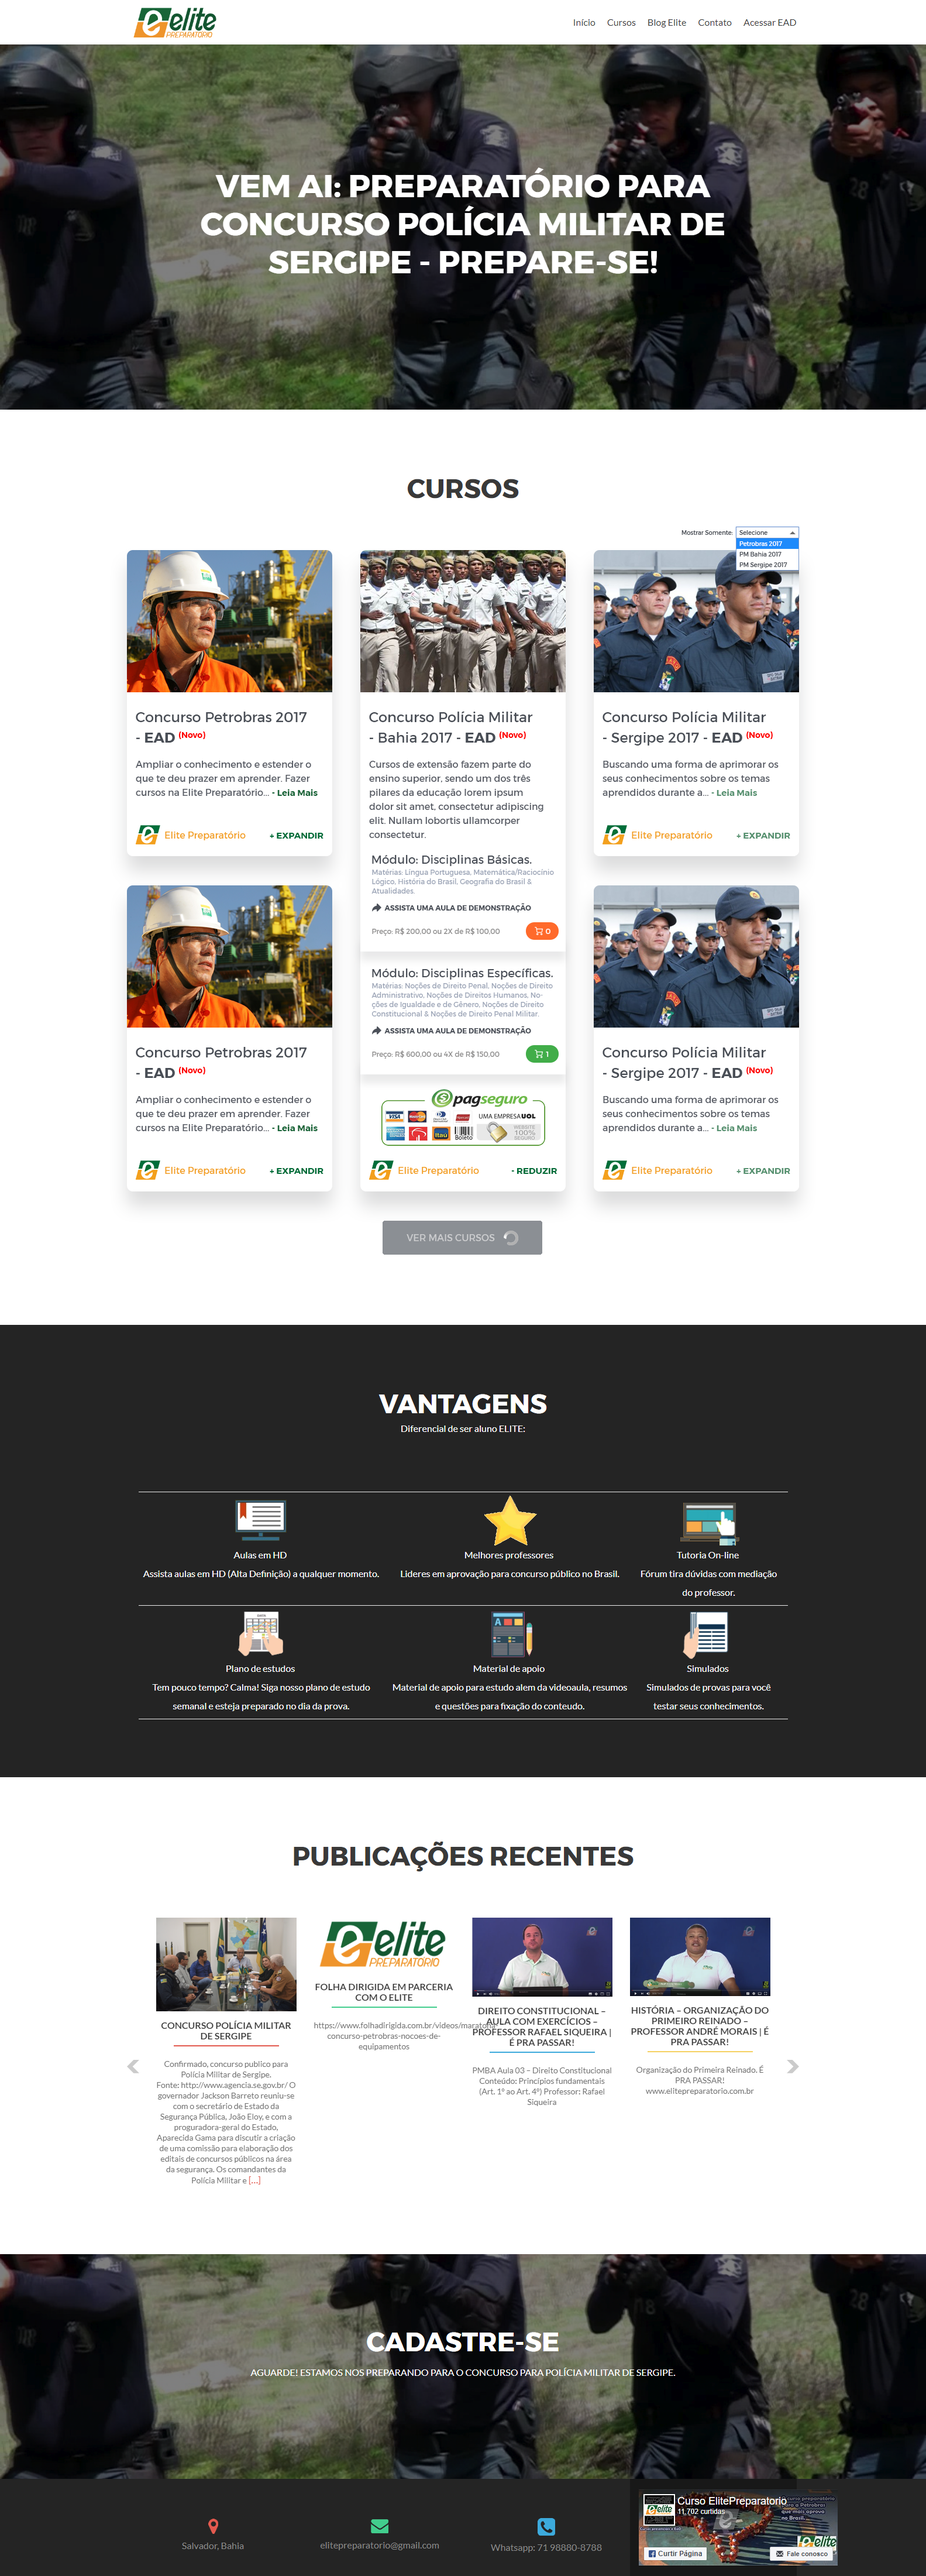
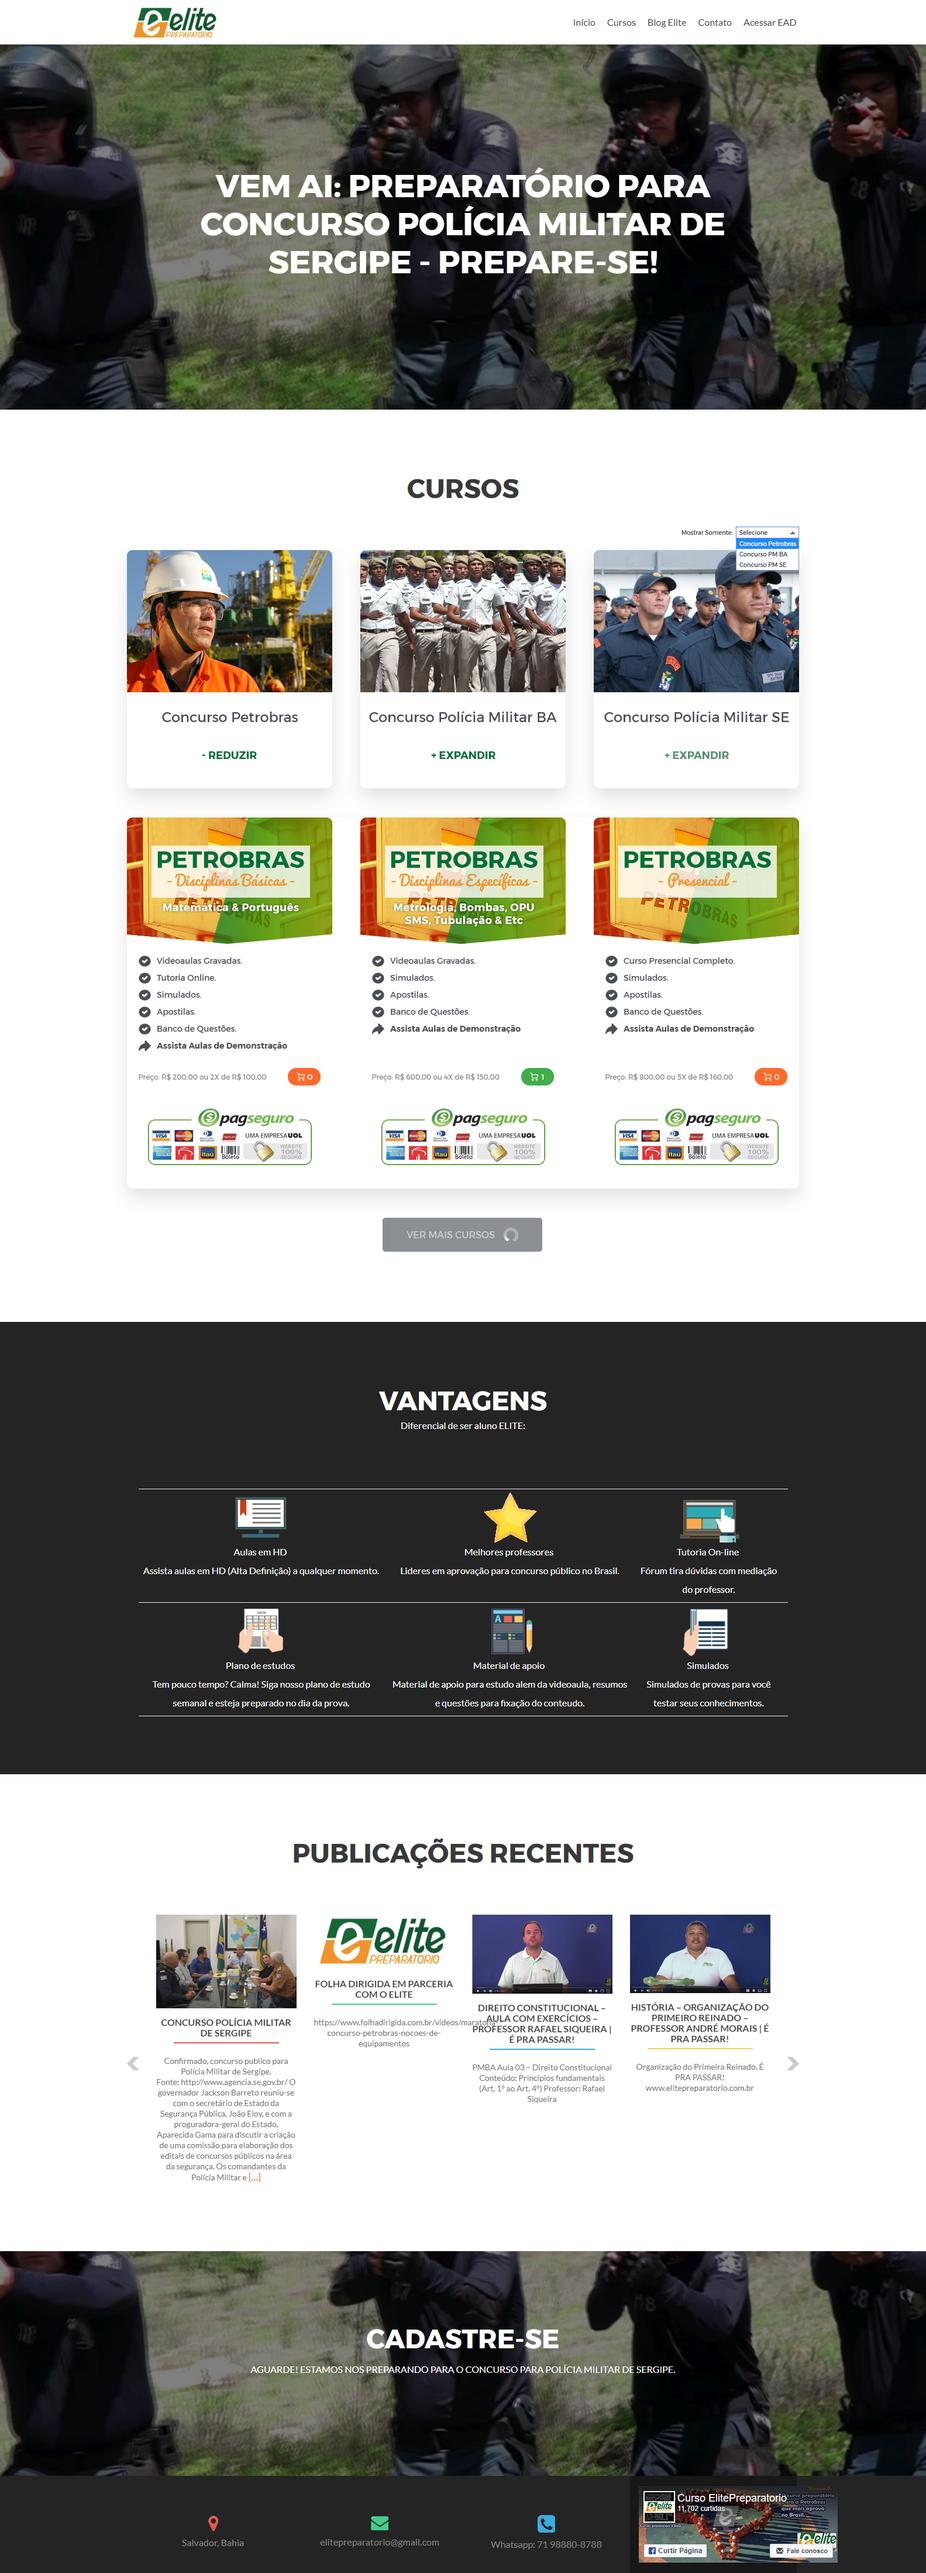
Add files via upload

diff --git a/css/style.css b/css/style.css
@@ -47,7 +47,7 @@
 		
 		.index {
 			width: 100%;
-			height: 4402px;
+			height: 3713px;
 			background: url('../imgs/index.png') no-repeat 50% 0%;
 		}
 		
@@ -59,12 +59,12 @@
 		
 		.index-hover {
 			width: 100%;
-			height: 4402px;
+			height: 3713px;
 			background: url('../imgs/index-hover.png') no-repeat 50% 0%;
 		}
 		
 		.index-active {
 			width: 100%;
-			height: 4402px;
+			height: 4397px;
 			background: url('../imgs/index-active.png') no-repeat 50% 0%;
 		}
